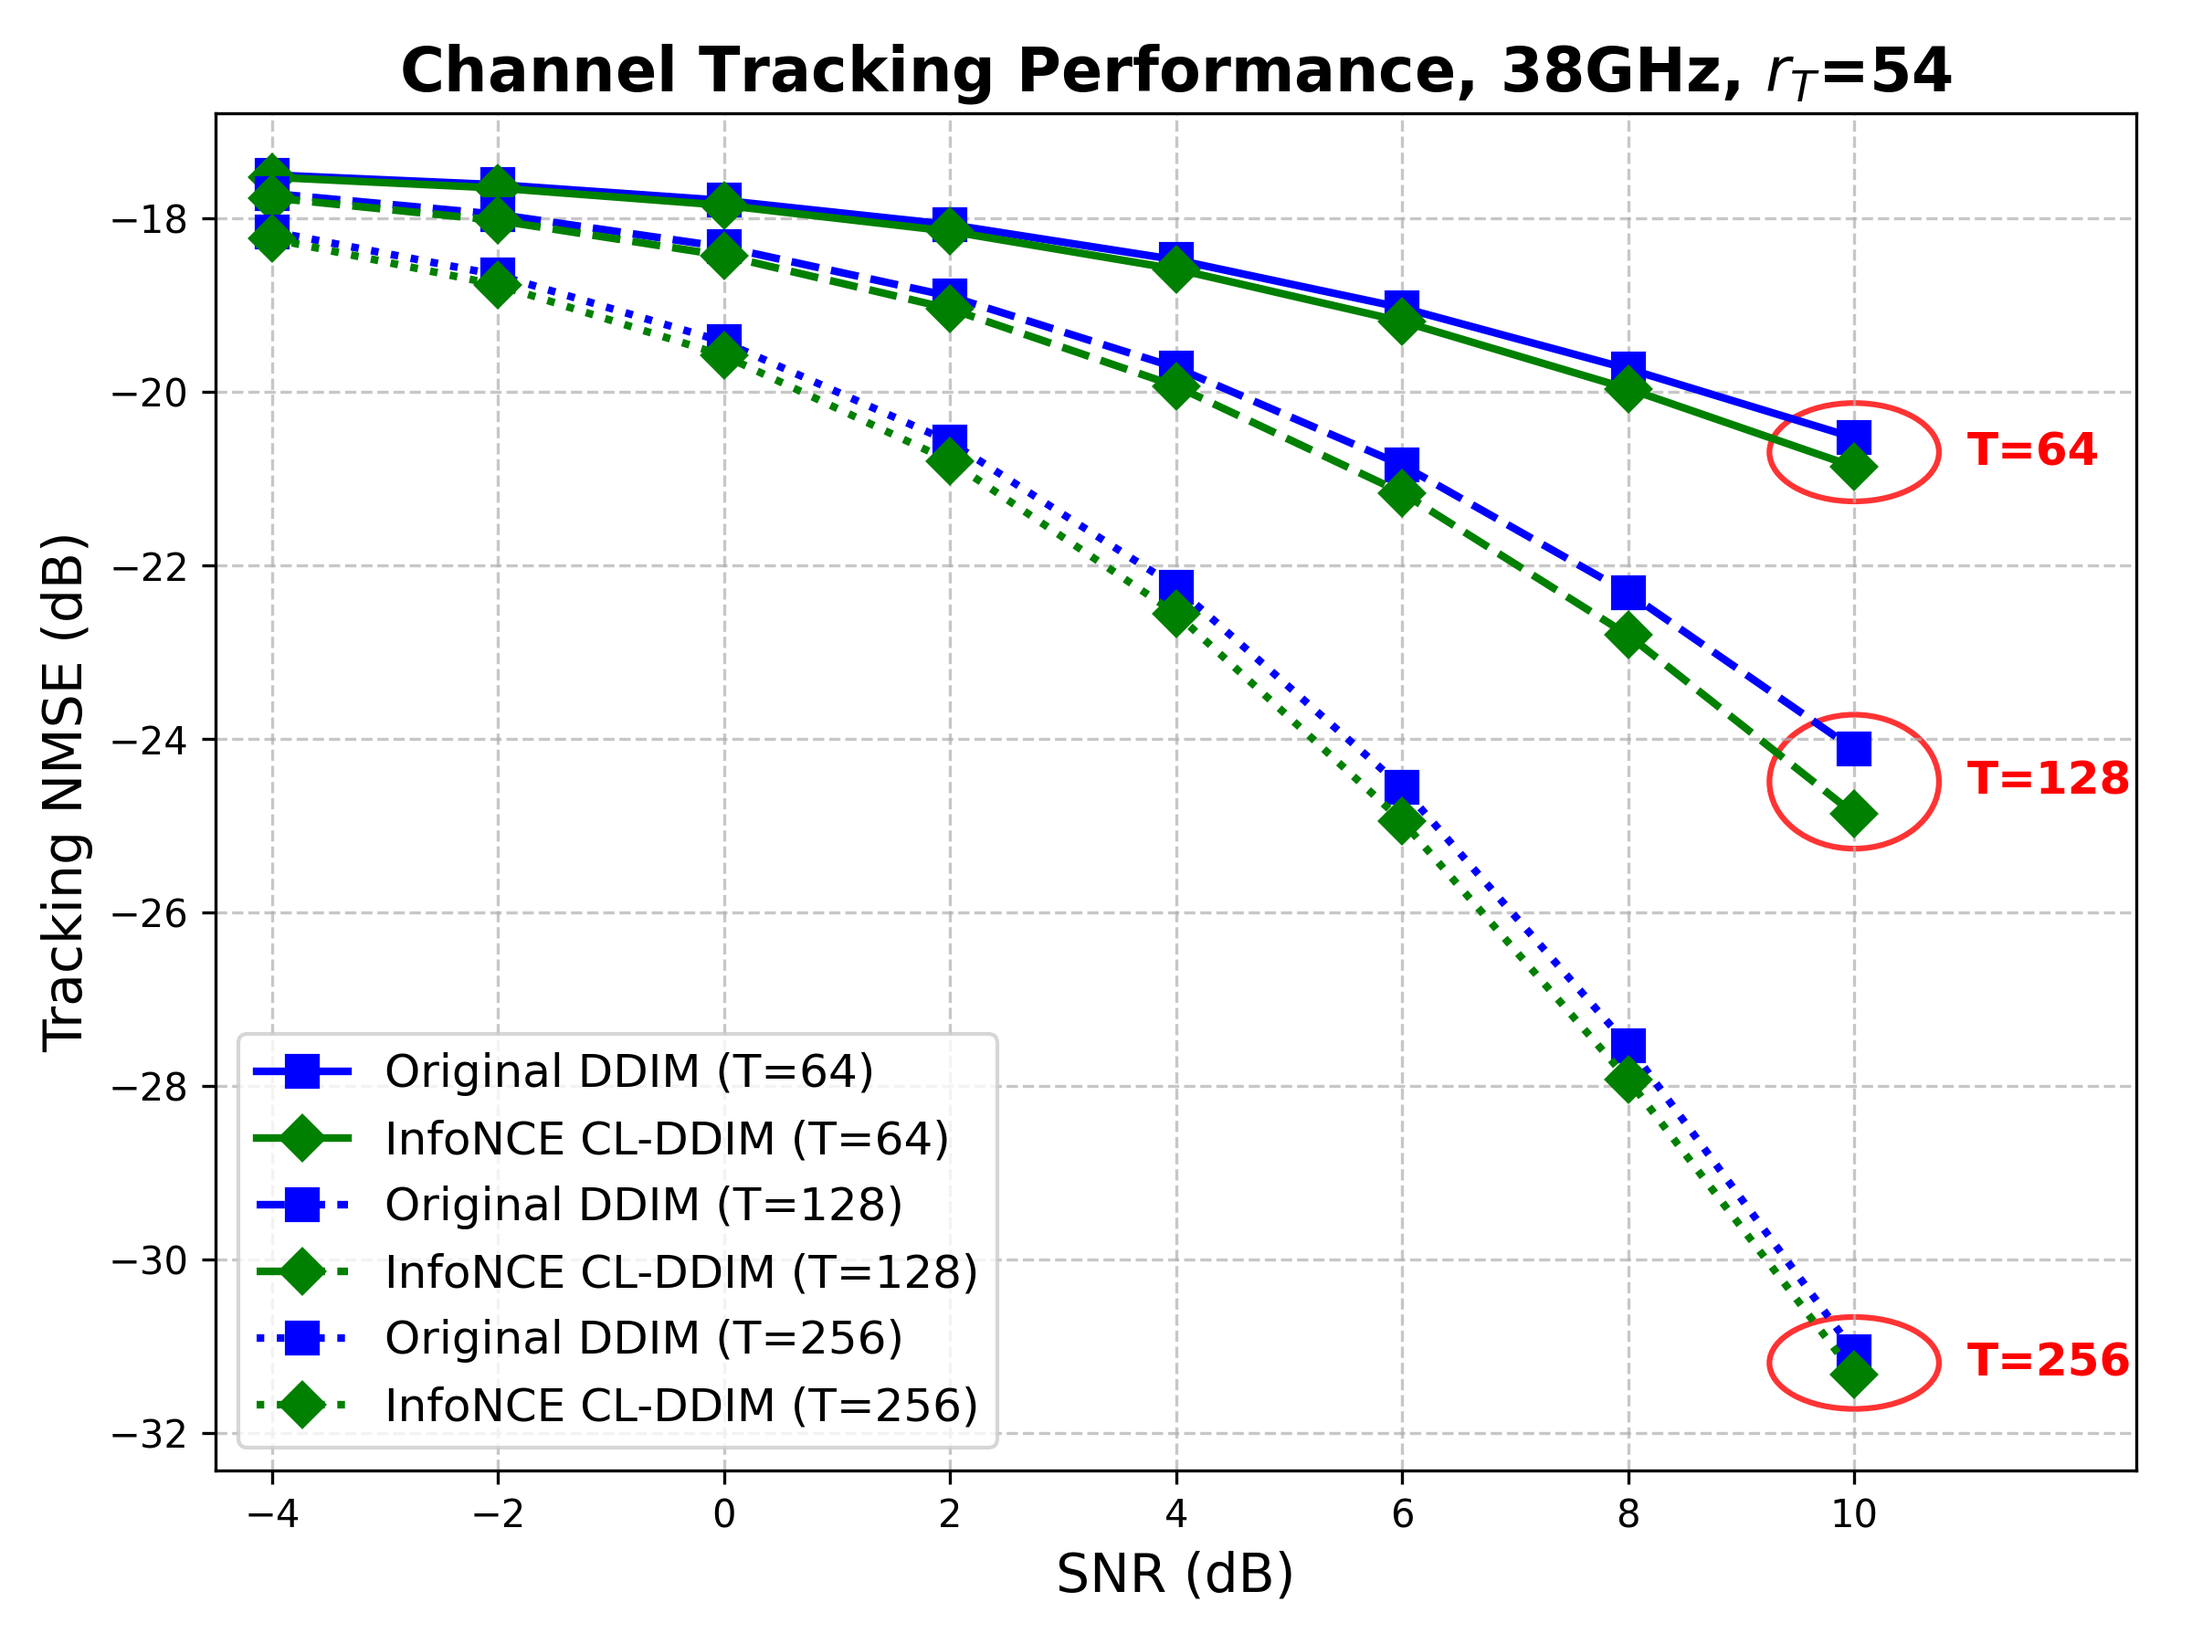
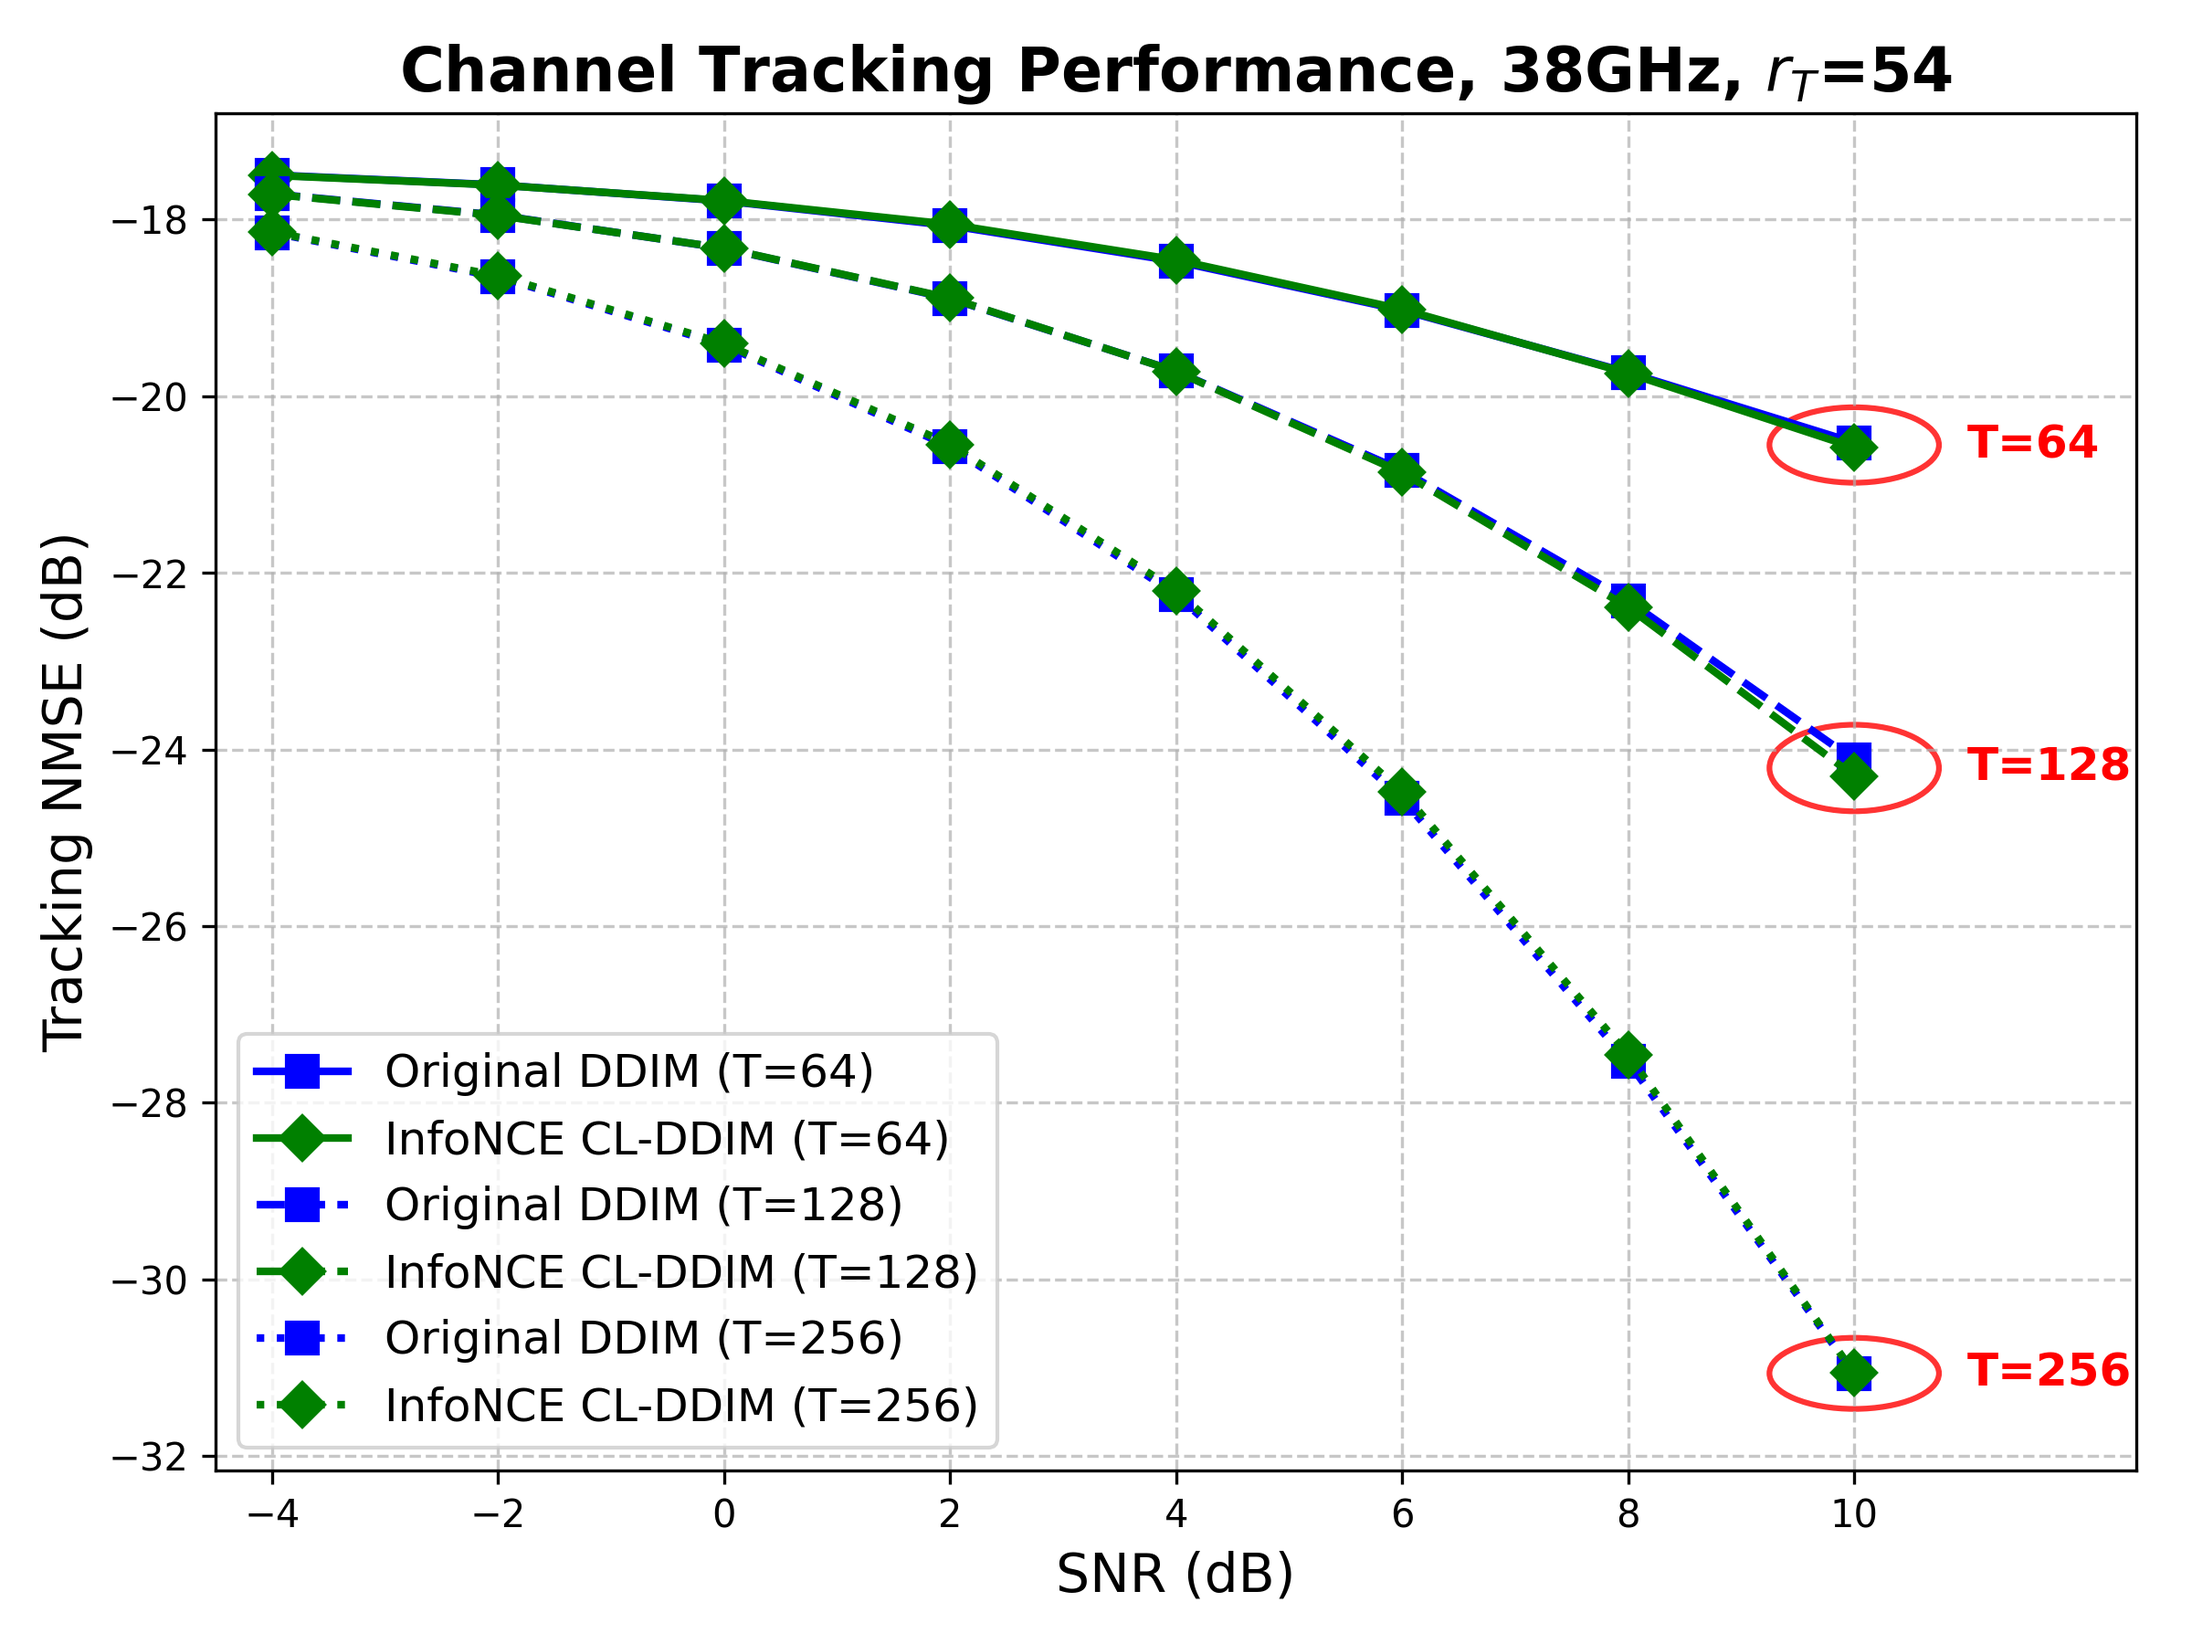
feat: turn back to use same size EpsNetMLP, the results are almost the same as non-CL, tuning needed

diff --git a/small_scale_channel_tracking/main_DDIM_tracker_CL.py b/small_scale_channel_tracking/main_DDIM_tracker_CL.py
@@ -14,11 +14,11 @@ TX_DIM = [8, 8]
 RX_DIM = [1, 1]
 if FREQ_GHZ == 12: RHO = 0.1034
 elif FREQ_GHZ == 38: RHO = 0.0001
-R_T = 64
+R_T = 54
 NUM_SAMPLES = 1000000
-CUDA = 1
+CUDA = 0
 CHAN_MODE = 'modal' # 'spatial' or 'modal'
-NUM_PILOTS = 64*4
+NUM_PILOTS = 64*1
 
 # Training settings
 NUM_EPOCHS = 10000
@@ -108,7 +108,7 @@ elif MODE == 'test':
     import scipy.io as sio
     from data.data_loader_tracker import get_tracking_testing_dataset
     from diffusion.ddim_sampler_tracker import ddim_tracking_sampler
-    from models.epsnet_mlp import LatentEpsNet
+    from models.epsnet_mlp import EpsNetMLP
     
     # 1. Load Trained Model
     weights_path = os.path.join(script_dir, "weights", MODEL_WEIGHT_FILE_NAME)
@@ -121,7 +121,7 @@ elif MODE == 'test':
         dim = 64 * 2
     elif CHAN_MODE == 'modal':
         dim = R_T * 2
-    eps_net = LatentEpsNet(dim=dim, hidden=512, time_emb_dim=128).to(device)
+    eps_net = EpsNetMLP(dim=dim, hidden=512, time_emb_dim=128).to(device)
     eps_net.load_state_dict(checkpoint['model_state_dict'])
     eps_net.eval()
     

diff --git a/small_scale_channel_tracking/train_tracker_CL.py b/small_scale_channel_tracking/train_tracker_CL.py
@@ -63,7 +63,7 @@ def train_latent_epsnet_tracker(Xs_real, model_type='mlp', num_epochs=100, batch
 
     # --- 3. Model Setup ---
     if model_type == 'mlp':
-        from models.epsnet_mlp import LatentEpsNet as Net
+        from models.epsnet_mlp import EpsNetMLP as Net
         # 512 hidden size is generally plenty for a small dimension like 10
         net = Net(dim=dim, hidden=512, time_emb_dim=128).to(device)
     else:

diff --git a/small_scale_channel_tracking/data/channel/channel_gen.m b/small_scale_channel_tracking/data/channel/channel_gen.m
@@ -12,7 +12,7 @@ num_samples = 1000000;
 
 % General setting for channel generation
 loc_BSs = [0; 0; 20000];
-loc_UTs = [0; 0; 0];     % set distance between BSs and UT to be around 680 m in 2D [min 35 m in 2D]
+loc_UTs = [0; 0; 1.5];     % set distance between BSs and UT to be around 680 m in 2D [min 35 m in 2D]
 ori_BSs = [1 0 0; 0 1 0; 0 0 -1];
 ori_UTs = [1 0 0; 0 1 0; 0 0 1];
 f_arr = [2 0]; % UPA n single antenna

diff --git a/small_scale_channel_tracking/main_DDIM_tracker.py b/small_scale_channel_tracking/main_DDIM_tracker.py
@@ -5,7 +5,7 @@ import numpy as np
 # -----------------------------
 # Configurations
 # -----------------------------
-RUN_ID = 2
+RUN_ID = 1
 MODE = {1: 'train', 2: 'test'}.get(RUN_ID, 'train')
 
 # Scenario Configs
